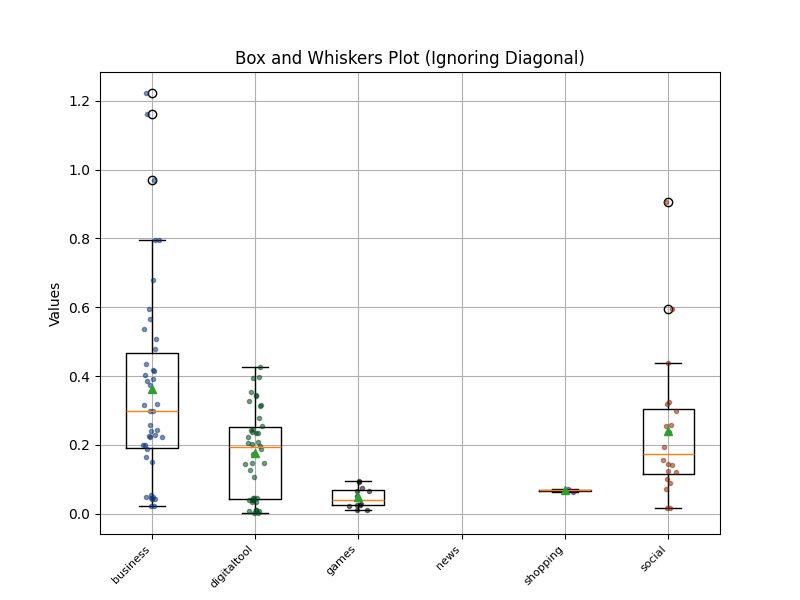
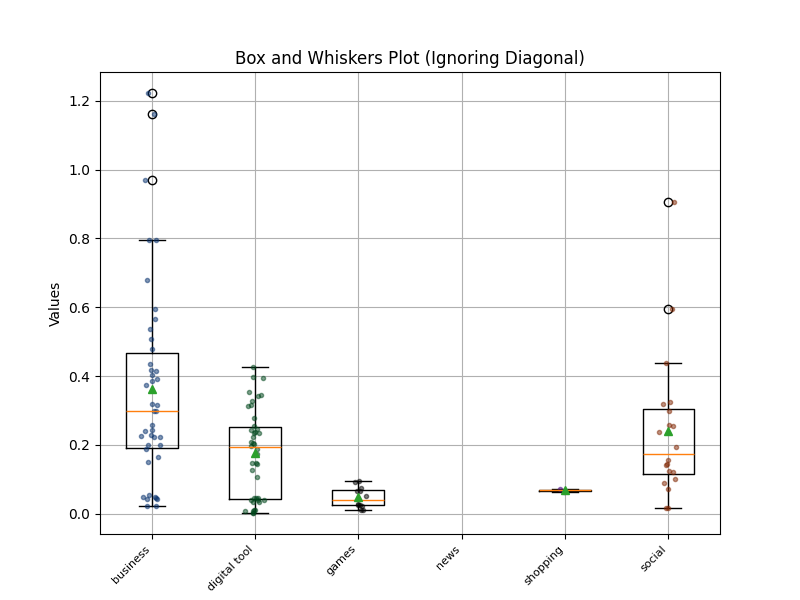
latest updat minor fixes

diff --git a/write_latex.py b/write_latex.py
@@ -44,7 +44,7 @@ def get_latex_table(leaks_file, output_path):
                 # Get number of users, mean password length, and score probabilities
                 count = get_count(data)
                 mean_length = get_password_length_mean(data)
-                count_list, probability_dist = get_count_and_probabilities(data)
+                count_list, probability_dist = get_count_and_probabilities(leak)
                 
                 # Calculate the mean score using the score probabilities
                 mean_score = calculate_mean_score(probability_dist)

diff --git a/latex/distribution_resume_table.tex b/latex/distribution_resume_table.tex
@@ -28,6 +28,8 @@ edmodo & digitaltool & 01/05/2017  & 14884412 & 8.81 & 1.76 \\
 mixfiend & digitaltool & Unknown  & 193984 & 7.23 & 1.20 \\
 psiho & digitaltool & 01/03/2018  & 883693 & 7.87 & 1.30 \\
 htcmania & news & 04/01/2020  & 482910 & 8.25 & 1.61 \\
+evony & games & 01/06/2016  & 34147326 & 7.98 & 1.38 \\
+hq & business & Unknown  & 3025218 & 9.53 & 2.17 \\
 \hline
 \end{tabular}
 \caption{Summary of data breaches with user information.}

diff --git a/plots.py b/plots.py
@@ -389,6 +389,9 @@ def boxwhiskers_from_kl_matrices(kl_matrices, labels, colors=None):
         non_diag_values = matrix.to_numpy()[~np.eye(matrix.shape[0], dtype=bool)]
         values.append(non_diag_values)
 
+    # Create space in digital tool
+    labels = [label.replace('digitaltool', 'digital tool') for label in labels]
+
     # Create boxplot
     plt.figure(figsize=(8, 6))
     plt.boxplot(values, showmeans='True')
